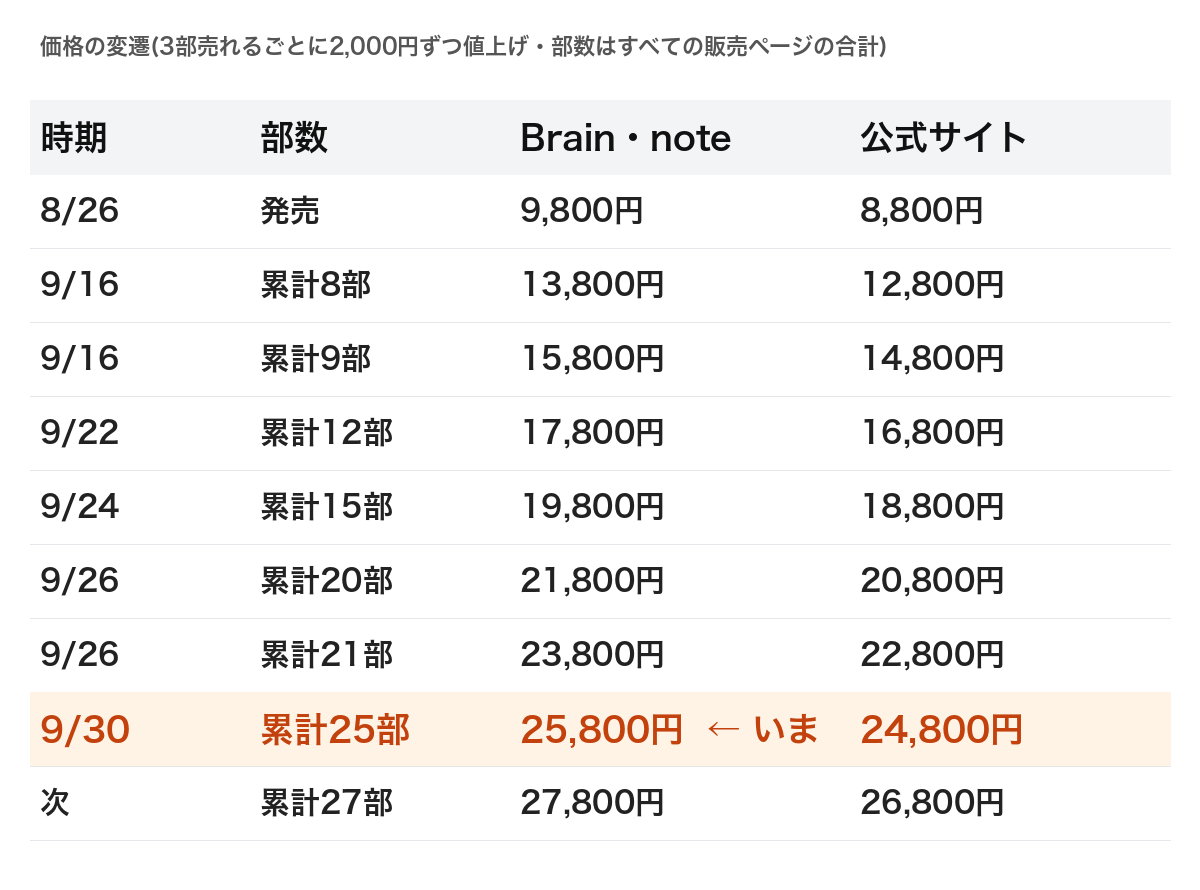
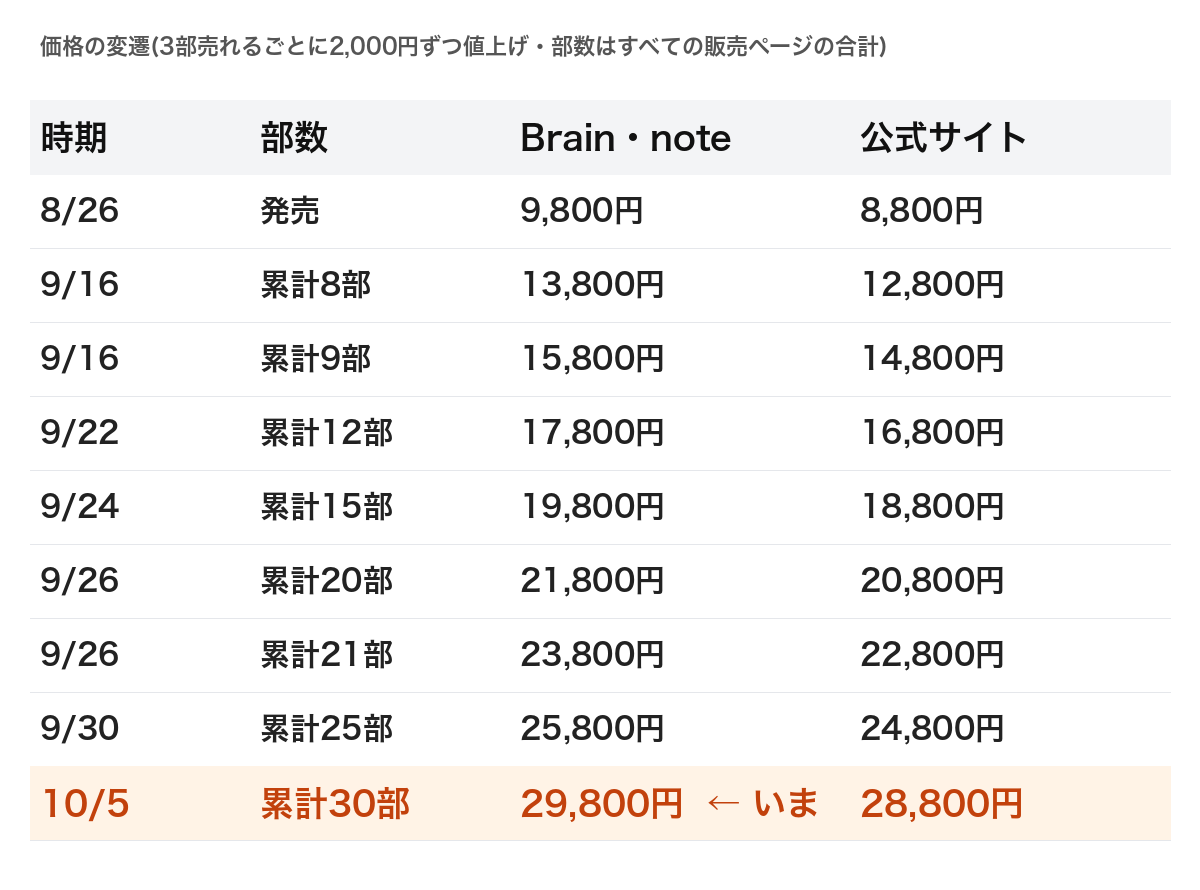
Raise eBay textbook to its 29,800 yen list price at 30 copies and the dance book to tier 2

Changed region(s): [[0.0, 0.7584, 0.9867, 0.9708]]

diff --git a/kyokasho/dance/index.html b/kyokasho/dance/index.html
@@ -54,7 +54,7 @@ figcaption{font-size:14px}.buy-card{text-align:left}.buy-card .price-big,.buy-ca
 <header class="hero"><img src="img/cover.png" alt="【きくりん式】レンタルスペースは「ダンススタジオ」で稼ぐ！完全ロードマップ。実践付録10点つき" width="1280" height="670" fetchpriority="high">
 <h1>【きくりん式】レンタルスペースは<span class="keep-word">「ダンススタジオ」</span>で稼ぐ！完全ロードマップ</h1><p class="intro">住宅地の駅 × 教室利用 × 定期。<br>駅選びから物件探し、開業、定期利用まで。まずは第0部を、登録なしで読んでください。</p>
 <div class="lead"><p>レンタルスペースを始めたいけれど、ジャンルに迷っている。物件が決められない。そんな会社員の方に向けた本です。</p><p>レンタルスペースの中でも、ダンス向けのレンタルスタジオを、住宅地の駅に1部屋。教室の先生に毎週使ってもらって、毎月埋まる店をつくるやり方を、全部まとめました。</p><p>書いているのは、きくりんです。レンタルスペースを累計23店舗。ダンススタジオはそのうち11店舗です。電話はAIの自動応答、清掃の報告はアプリ。毎日の運営は、AIと仕組みに任せています。</p></div>
-<p class="facts"><span>Web教材 第0部＋全9部</span><span>実践の付録10点</span><span>買い切り ¥8,800（税込）</span></p>
+<p class="facts"><span>Web教材 第0部＋全9部</span><span>実践の付録10点</span><span>買い切り ¥11,800（税込）</span></p>
 <a class="btn btn-stripe" href="#buy" data-cta="jump_buy">価格と購入内容を見る ↓</a></header>
 <p class="reading-label">ここから、第0部を無料で読めます</p>
 <nav aria-label="第0部の目次"><div class="toc">
@@ -632,16 +632,16 @@ figcaption{font-size:14px}.buy-card{text-align:left}.buy-card .price-big,.buy-ca
 <section id="buy" class="buy" aria-labelledby="buy-heading"><div class="buy-card">
 <h2 id="buy-heading">第1部から先を読む</h2><p>【きくりん式】レンタルスペースは「ダンススタジオ」で稼ぐ！完全ロードマップ</p>
 <ul><li>第0部＋全9部と巻末（Web版）</li><li>物件探しツール・全国おすすめ駅一覧など、実践の付録10点</li><li>教材の改訂は無料。購入者フォームで質問を受け付けます（受付期間の制限なし）</li></ul>
-<p class="price-now">買い切り・1回払い</p><p class="price-big">¥8,800<small>（税込）</small></p>
+<p class="price-now">買い切り・1回払い</p><p class="price-big">¥11,800<small>（税込）</small></p>
 <p class="price-rule">販売価格は3部売れるごとに3,000円ずつ上がります（直販の上限 ¥28,800）。部数は全販路の合計です。購入済みの方に追加料金はかかりません。</p>
 <p class="cta-note">教材とブラウザツールの月額料金はありません。公式サイト作成の付録には、パソコンと別途Claude CodeかCodexの契約が必要です。AIの契約費用・通信費はお客様のご負担です。</p>
-<a class="btn btn-stripe" href="https://buy.stripe.com/6oU4gy12S1LJg4HcAN67T0k" data-cta="stripe_dance" data-stripe="live"><span class="btn-main">教材を購入する — ¥8,800（税込）</span><span class="btn-sub">カード決済・Stripeの確認画面へ</span></a>
+<a class="btn btn-stripe" href="https://buy.stripe.com/cNi3cu6ncfCz5q39oB67T0u" data-cta="stripe_dance" data-stripe="live"><span class="btn-main">教材を購入する — ¥11,800（税込）</span><span class="btn-sub">カード決済・Stripeの確認画面へ</span></a>
 <p class="cta-note">決済完了後、入力したメールアドレスに受け取りリンクを自動送信します（通常は数分以内・最長24時間）。届かない場合は迷惑メールフォルダを確認し、<a href="/form/?p=dance">購入者フォーム</a>からご連絡ください。</p>
 <p class="cta-note">デジタルコンテンツのため、購入後の返品・返金は原則お受けしていません。受け取りリンクが開けないなどの不具合に対応し、こちらで解決できない場合は返金します。<a href="/kyokasho/tokushoho.html">特定商取引法に基づく表記・プライバシーポリシー</a></p>
 <p class="cta-note">決済画面では「レンタルスペース経営の教科書」を追加で選べます。ダンス教材だけでも購入できます。追加商品を選んだ場合は、支払う前に合計金額をご確認ください。</p>
 </div></section><p class="fine">この本の数字は著者の店舗の実測です。売上・利益・回収期間など、購入者の成果を保証するものではありません。</p>
 <p class="back"><a href="/">ブログへ</a><a href="/kyokasho/">レンタルスペース経営の教科書</a><a href="/kyokasho/tokushoho.html">特定商取引法に基づく表記</a></p></main>
-<a class="mobile-sticky" href="#buy" data-cta="jump_buy">¥8,800（税込）・購入内容を確認する ↓</a>
+<a class="mobile-sticky" href="#buy" data-cta="jump_buy">¥11,800（税込）・購入内容を確認する ↓</a>
 <footer class="site-home-footer">
 <!-- site-home-link start -->
 <nav class="site-home-nav" aria-label="サイトトップ"><a href="/">きくりんのノウハウ垂れ流し TOP</a></nav>

diff --git a/kyokasho/tokushoho.html b/kyokasho/tokushoho.html
@@ -26,7 +26,7 @@ a{color:#0f3fa8}.back{margin-top:30px;font-size:14px}.back a{margin-right:14px;f
 <tr><th>電話番号</th><td>090-2630-2435(お問い合わせは、下のメールまたは購入者フォームをご利用ください)</td></tr>
 <tr><th>メールアドレス</th><td>info@osara-rock.com</td></tr>
 <tr><th>販売URL</th><td><a href="https://rental-space.net/kyokasho/">レンタルスペース経営の教科書</a> / <a href="https://rental-space.net/kyokasho/ebay/">AI × eBay輸出の教科書</a> / <a href="https://rental-space.net/kyokasho/hp/">公式HPメーカー</a> / <a href="https://rental-space.net/kyokasho/dance/">ダンススタジオ完全ロードマップ</a></td></tr>
-<tr><th>販売価格</th><td>各商品ページ・決済画面に表示した価格(税込)。レンタルスペース経営の教科書 ¥19,800(3部売れるごとに¥2,000ずつ値上げ・直販上限¥27,800)/AI × eBay輸出の教科書 ¥24,800(3部売れるごとに¥2,000ずつ値上げ・直販上限¥28,800)/レンタルスペースの公式HPメーカー ¥450(3部売れるごとに値上げ)/ダンススタジオ完全ロードマップ ¥8,800(3部売れるごとに¥3,000ずつ値上げ・直販上限¥28,800)。セットを選ぶ場合は決済画面に各商品の価格と合計額を表示します。</td></tr>
+<tr><th>販売価格</th><td>各商品ページ・決済画面に表示した価格(税込)。レンタルスペース経営の教科書 ¥19,800(3部売れるごとに¥2,000ずつ値上げ・直販上限¥27,800)/AI × eBay輸出の教科書 ¥28,800(定価。3部売れるごとの値上げは上限に達したため終了)/レンタルスペースの公式HPメーカー ¥450(3部売れるごとに値上げ)/ダンススタジオ完全ロードマップ ¥11,800(3部売れるごとに¥3,000ずつ値上げ・直販上限¥28,800)。セットを選ぶ場合は決済画面に各商品の価格と合計額を表示します。</td></tr>
 <tr><th>商品代金以外の必要料金</th><td>インターネット接続の通信費はお客様のご負担です。教材とブラウザツールの月額料金はありません。公式HPメーカー、およびダンス教材付録の公式サイト作成スキルを使う場合は、別途Claude CodeかCodexの契約が必要です。AIサービスの契約費用は各社の料金に従い、お客様のご負担となります。</td></tr>
 <tr><th>支払方法</th><td>クレジットカード(決済代行: Stripe)</td></tr>
 <tr><th>支払時期</th><td>ご注文時に決済が確定します</td></tr>
